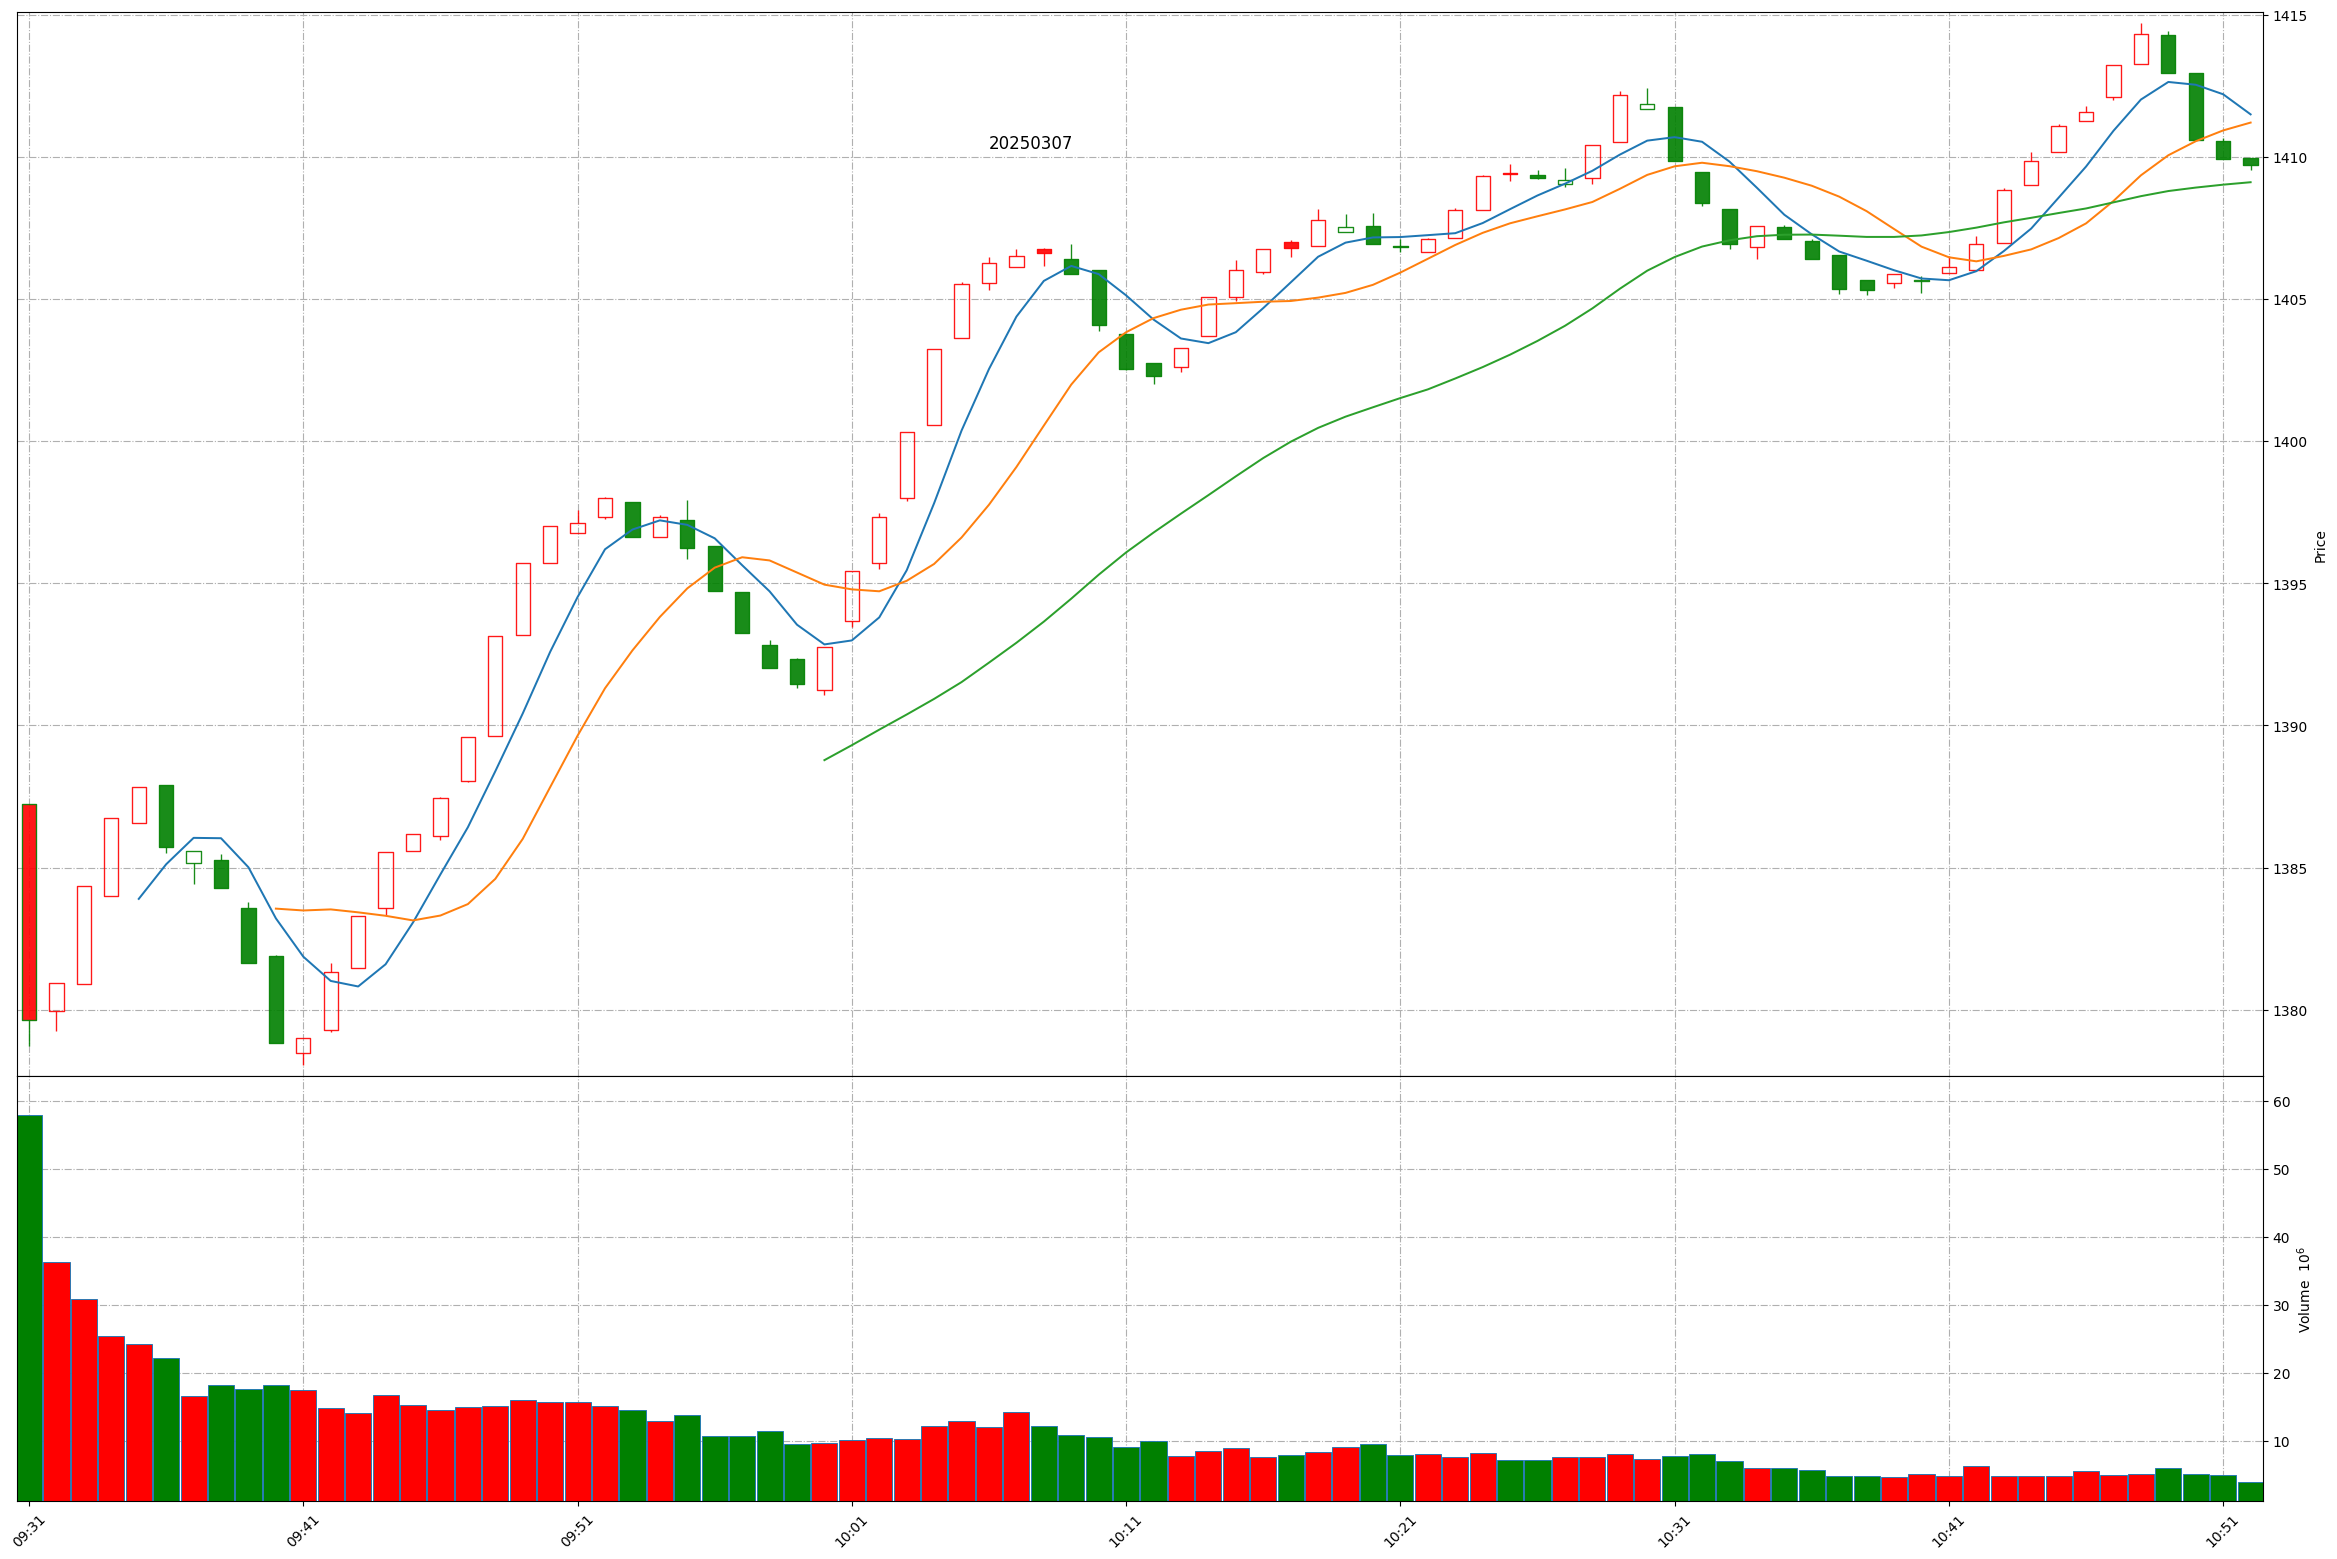
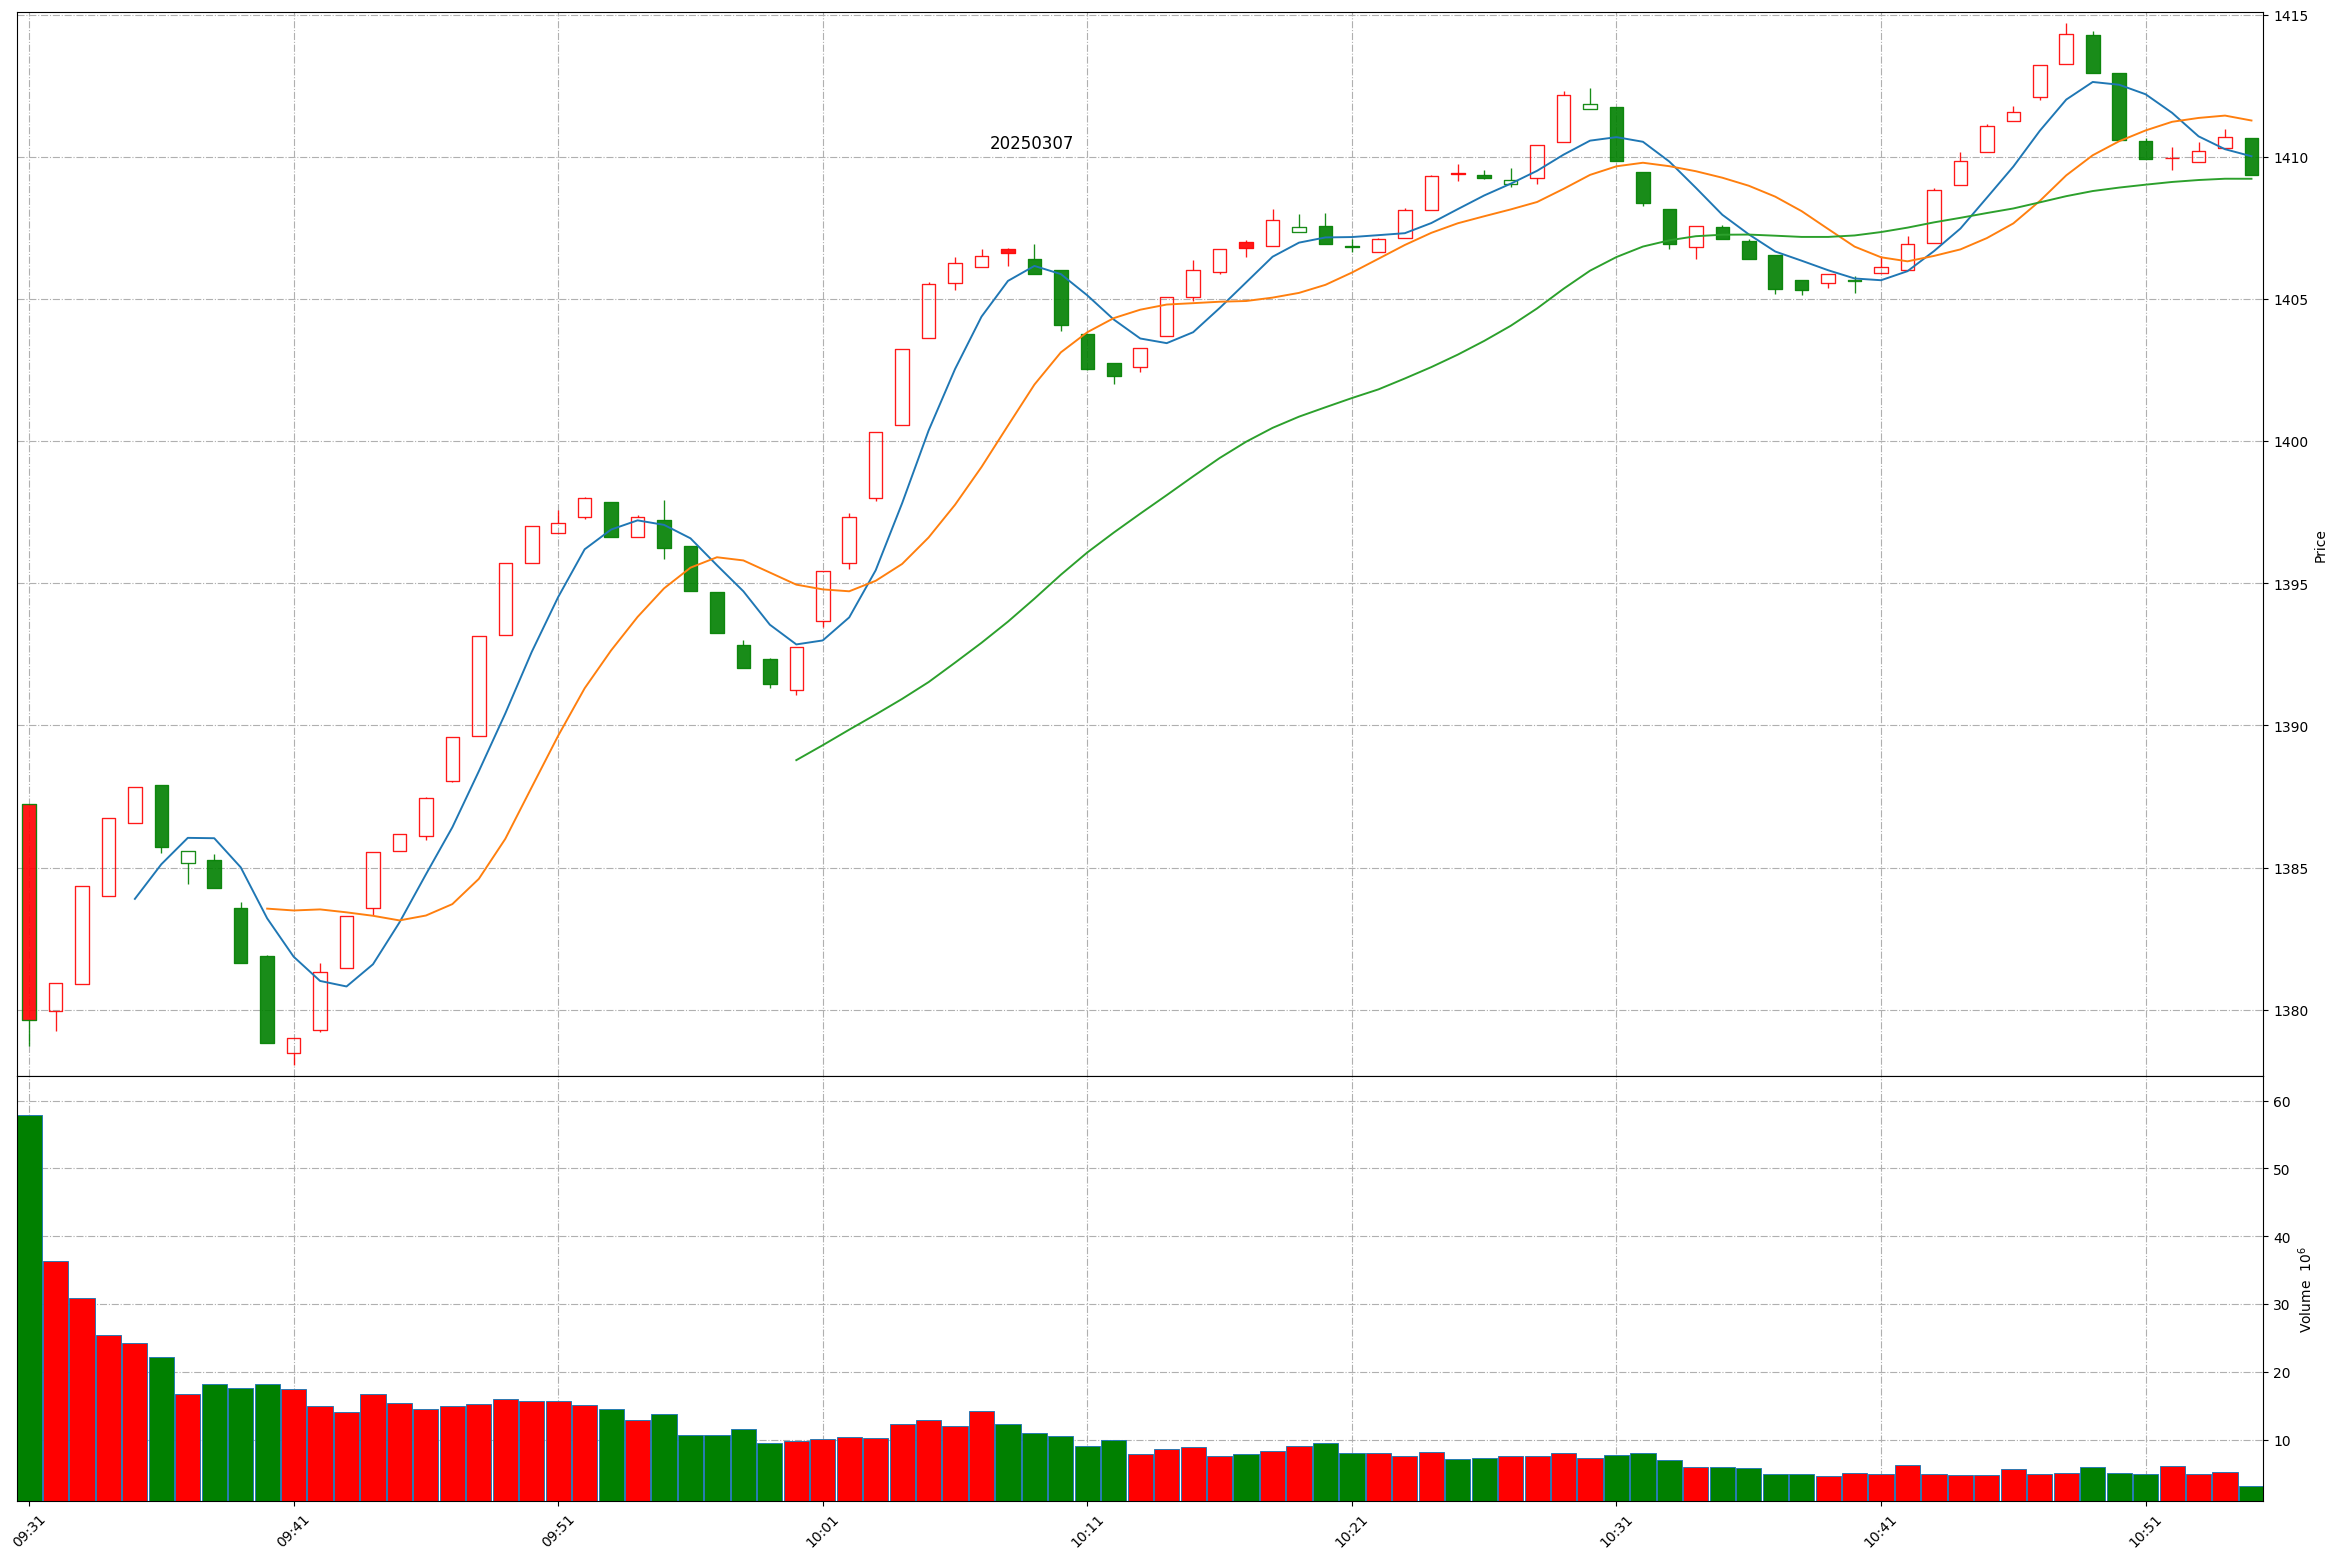
Github action update at 2025-03-07 10:54:41.

diff --git a/README.md b/README.md
@@ -1,11 +1,11 @@
 
 # Daily-A-share-market-quotes 每日 A 股指数（5min 更新）- 20250307
 
-### 上证指数 20250307 10:51
+### 上证指数 20250307 10:54
 ![](./fig/2025/3/20250307-sh000001.png)
 
-### 深证成指 20250307 10:51
+### 深证成指 20250307 10:54
 ![](./fig/2025/3/20250307-sz399001.png)
 
-### 北证50 20250307 10:51
+### 北证50 20250307 10:54
 ![](./fig/2025/3/20250307-bj899050.png)
